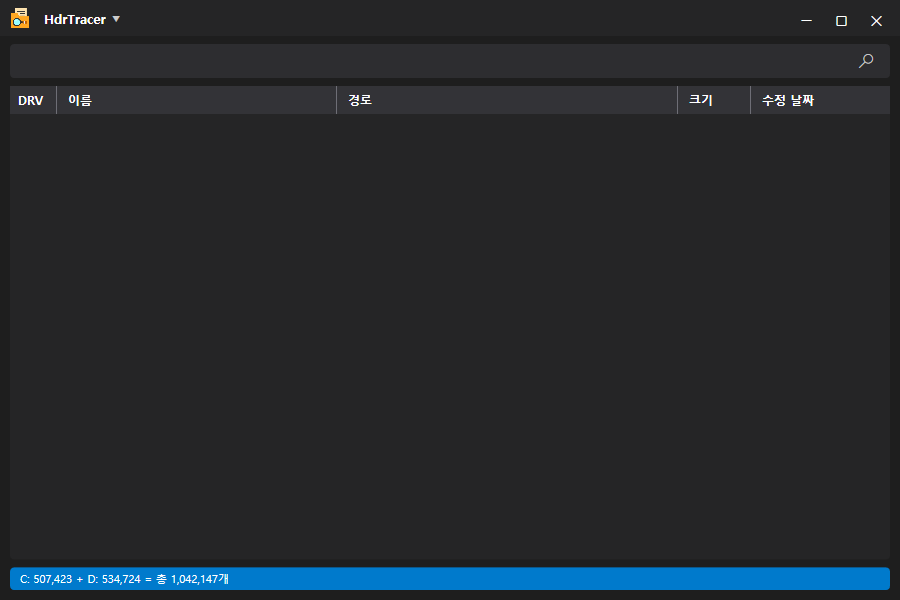
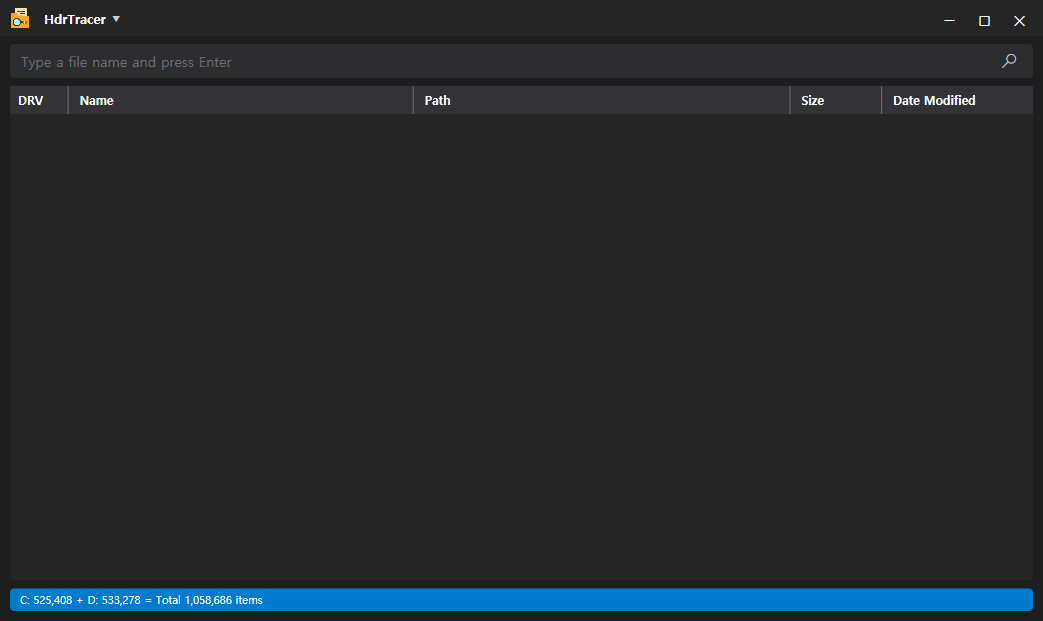
README: English UI screenshots, add search results example

diff --git a/README.en.md b/README.en.md
@@ -4,7 +4,15 @@
 
 <img src="docs/1.png" width="700" alt="HdrTracer main window">
 
-<img src="docs/2.png" width="700" alt="Extension (txt) search results">
+*Main window — type a file name and press Enter.*
+
+<img src="docs/2.png" width="700" alt="App menu">
+
+*App menu — settings, filters, language, search help and more.*
+
+<img src="docs/3.png" width="700" alt="Search results with a folder filter">
+
+*Search results — `thumb D:\Backup\photos\`*
 
 A fast file search tool for Windows that finds files on NTFS drives by name.
 

diff --git a/README.md b/README.md
@@ -2,9 +2,11 @@
 
 한국어 | [English](README.en.md)
 
-<img src="docs/1.png" width="700" alt="HdrTracer 메인 화면">
+<img src="docs/1.png" width="700" alt="HdrTracer main window">
 
-<img src="docs/2.png" width="700" alt="확장자(txt) 검색 결과">
+<img src="docs/2.png" width="700" alt="App menu">
+
+<img src="docs/3.png" width="700" alt="Search results with a folder filter">
 
 NTFS 드라이브의 파일을 이름으로 빠르게 찾는 윈도우용 검색 도구.
 
